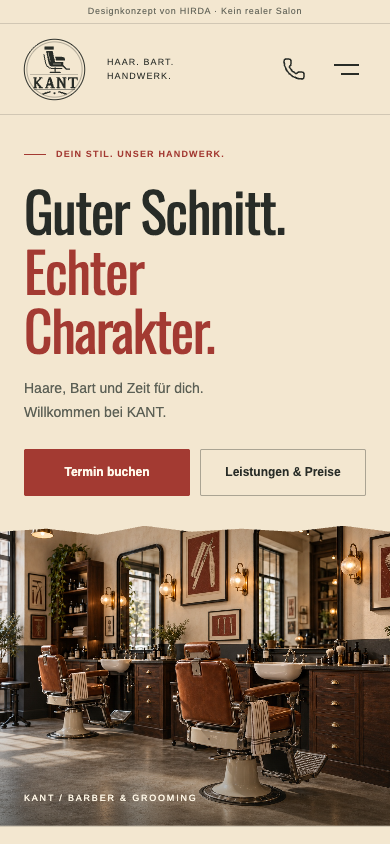
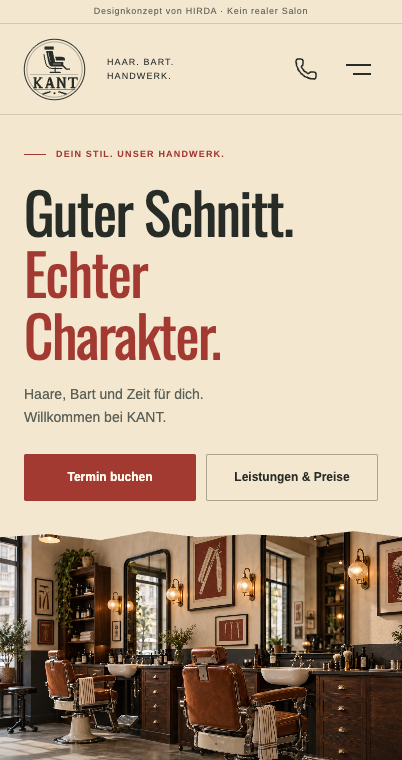
Expand Kant haircut and grooming guidance

diff --git a/apps/barbershop/src/data/site.ts b/apps/barbershop/src/data/site.ts
@@ -9,21 +9,21 @@ export const site = {
       number: "01",
       title: "Haarschnitt",
       description:
-        "Beratung, Schnitt und Styling — abgestimmt auf deinen Look.",
+        "Von den ersten Ideen bis zum Finish: Haarstruktur, Wirbel und dein tägliches Styling geben dem Schnitt seine Richtung.",
       duration: "45 Min.",
       price: "35 €",
     },
     {
       number: "02",
       title: "Bartpflege",
-      description: "Form, saubere Konturen und Pflege für deinen Bart.",
+      description: "Länge, Form und Konturen gemeinsam festlegen. Dazu ein Pflege-Finish und Tipps, mit denen dein Bart auch zu Hause in Form bleibt.",
       duration: "30 Min.",
       price: "25 €",
     },
     {
       number: "03",
       title: "Schnitt & Bart",
-      description: "Haarschnitt und Bartpflege in einem Termin.",
+      description: "Schnitt und Bart als ein stimmiger Look. Übergänge, Proportionen und Finish werden in einem Besuch aufeinander abgestimmt.",
       duration: "75 Min.",
       price: "55 €",
     },
